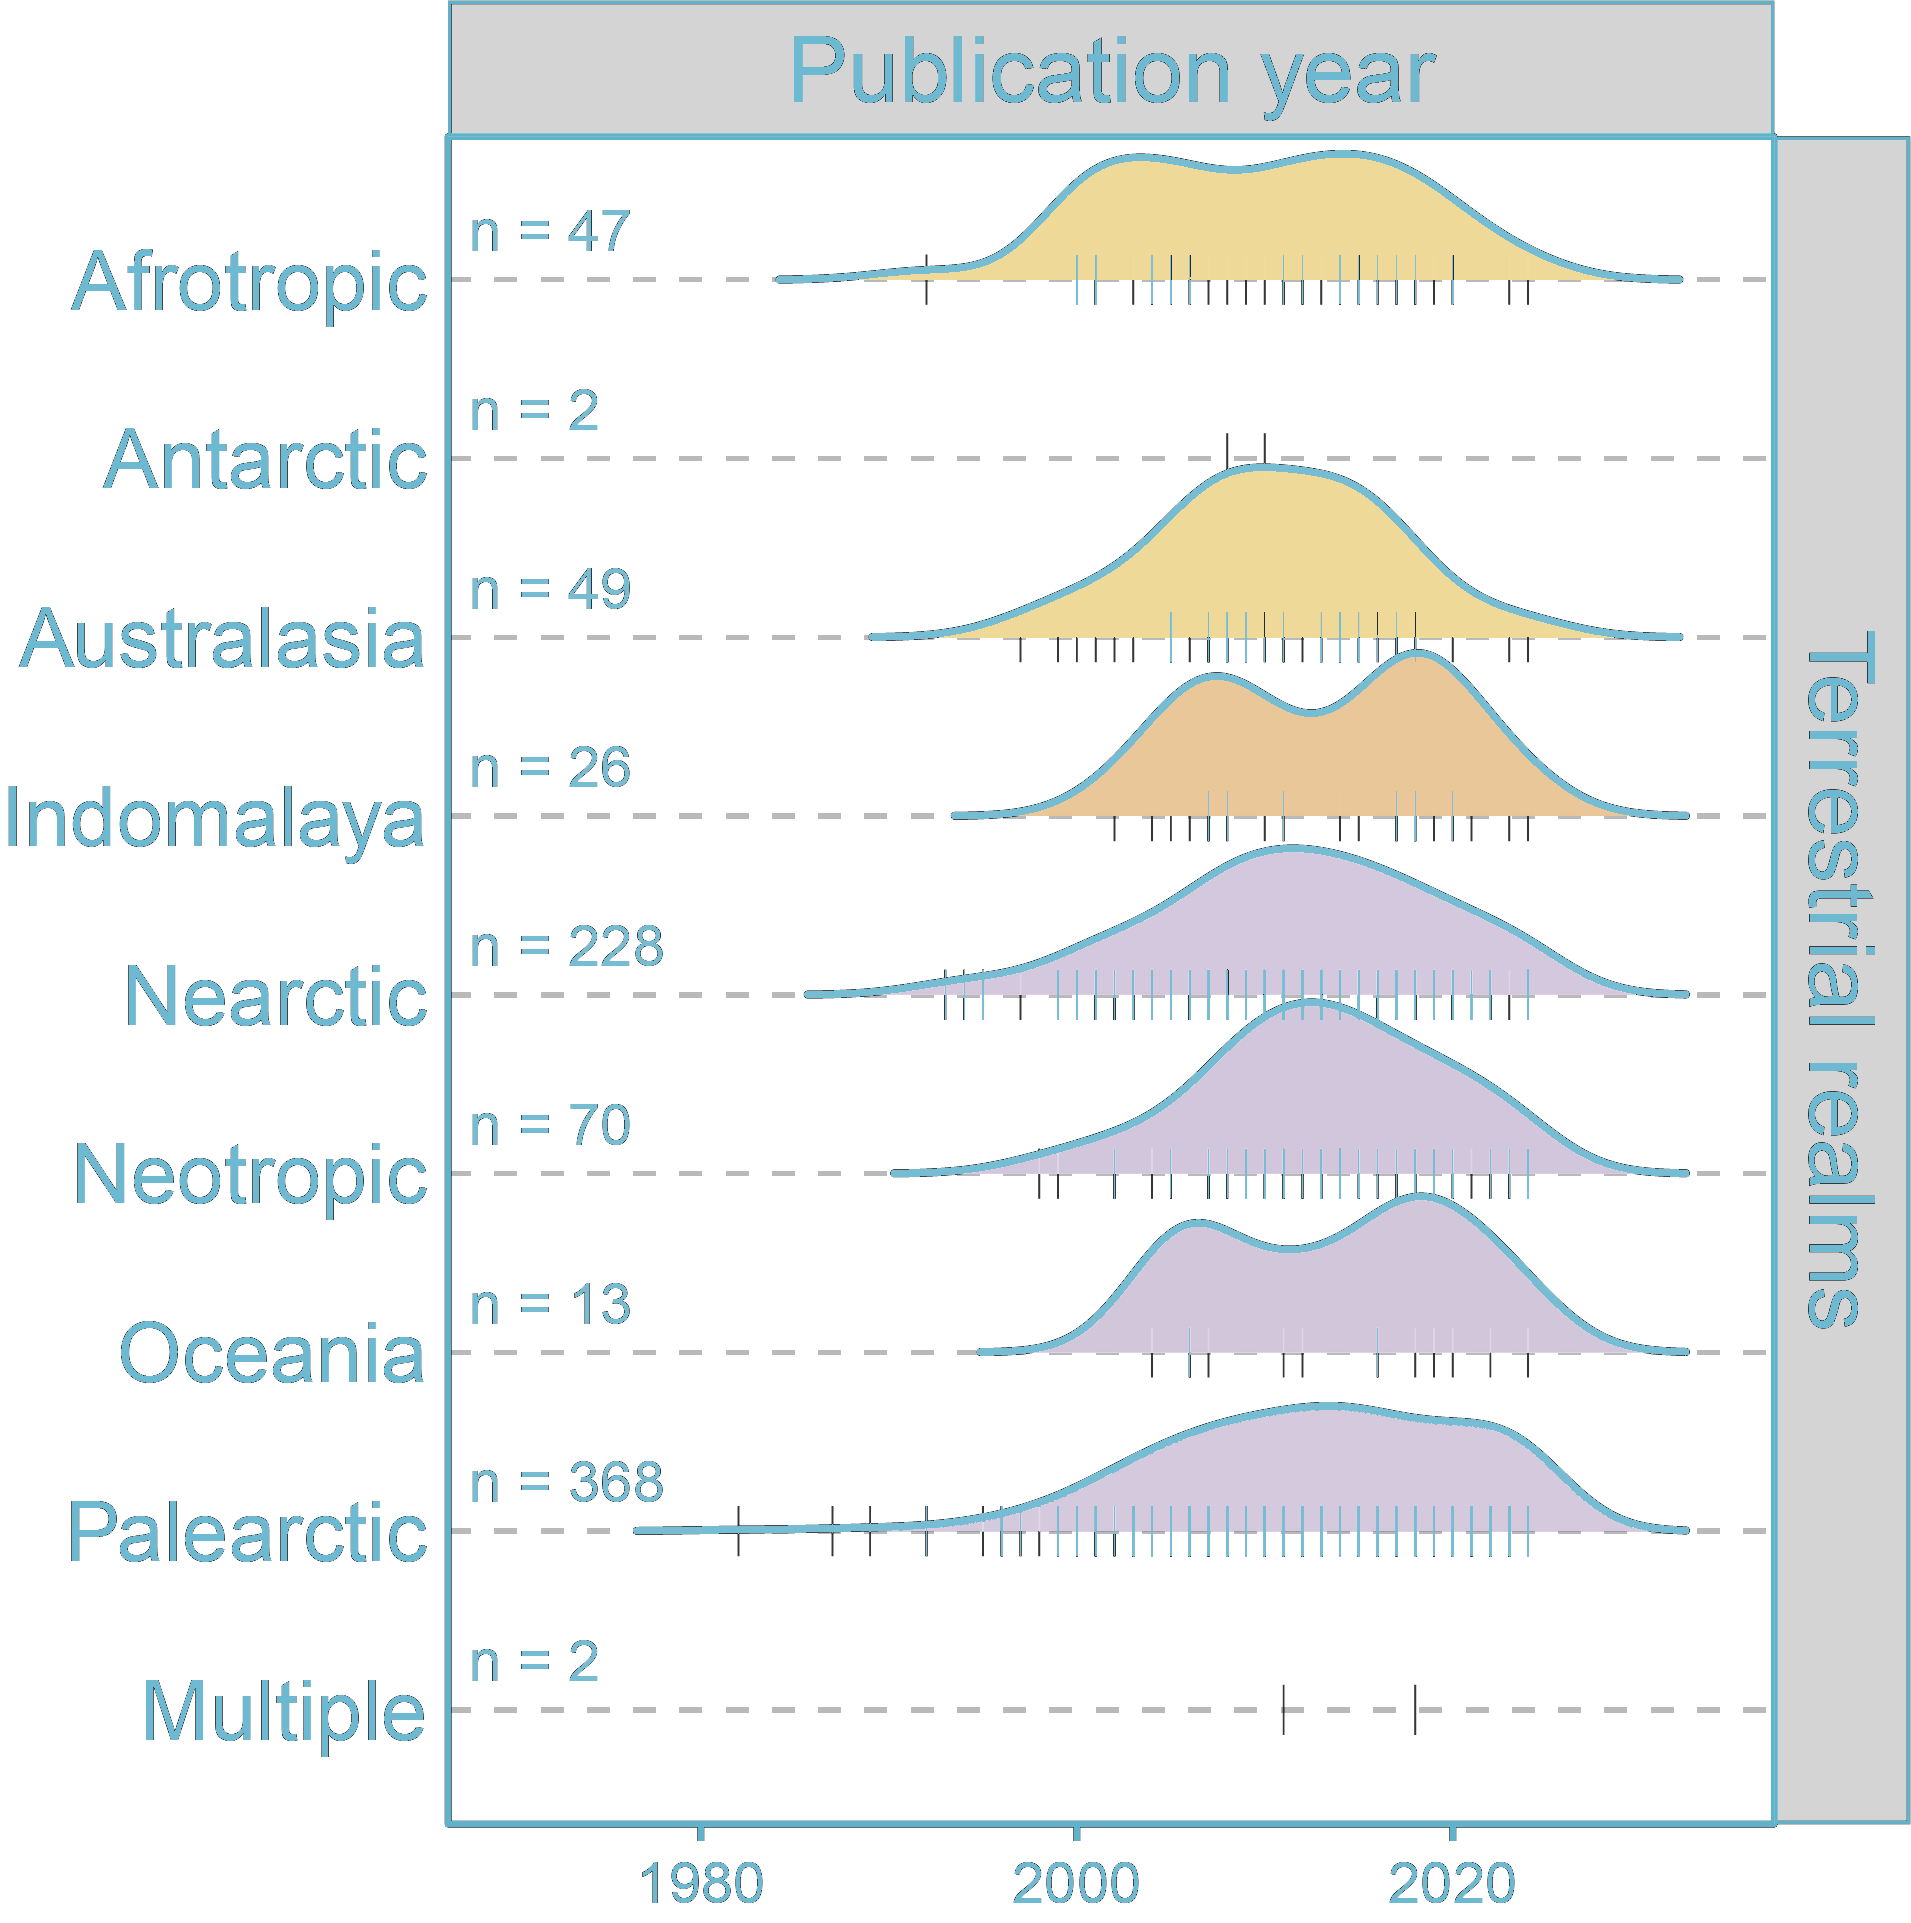
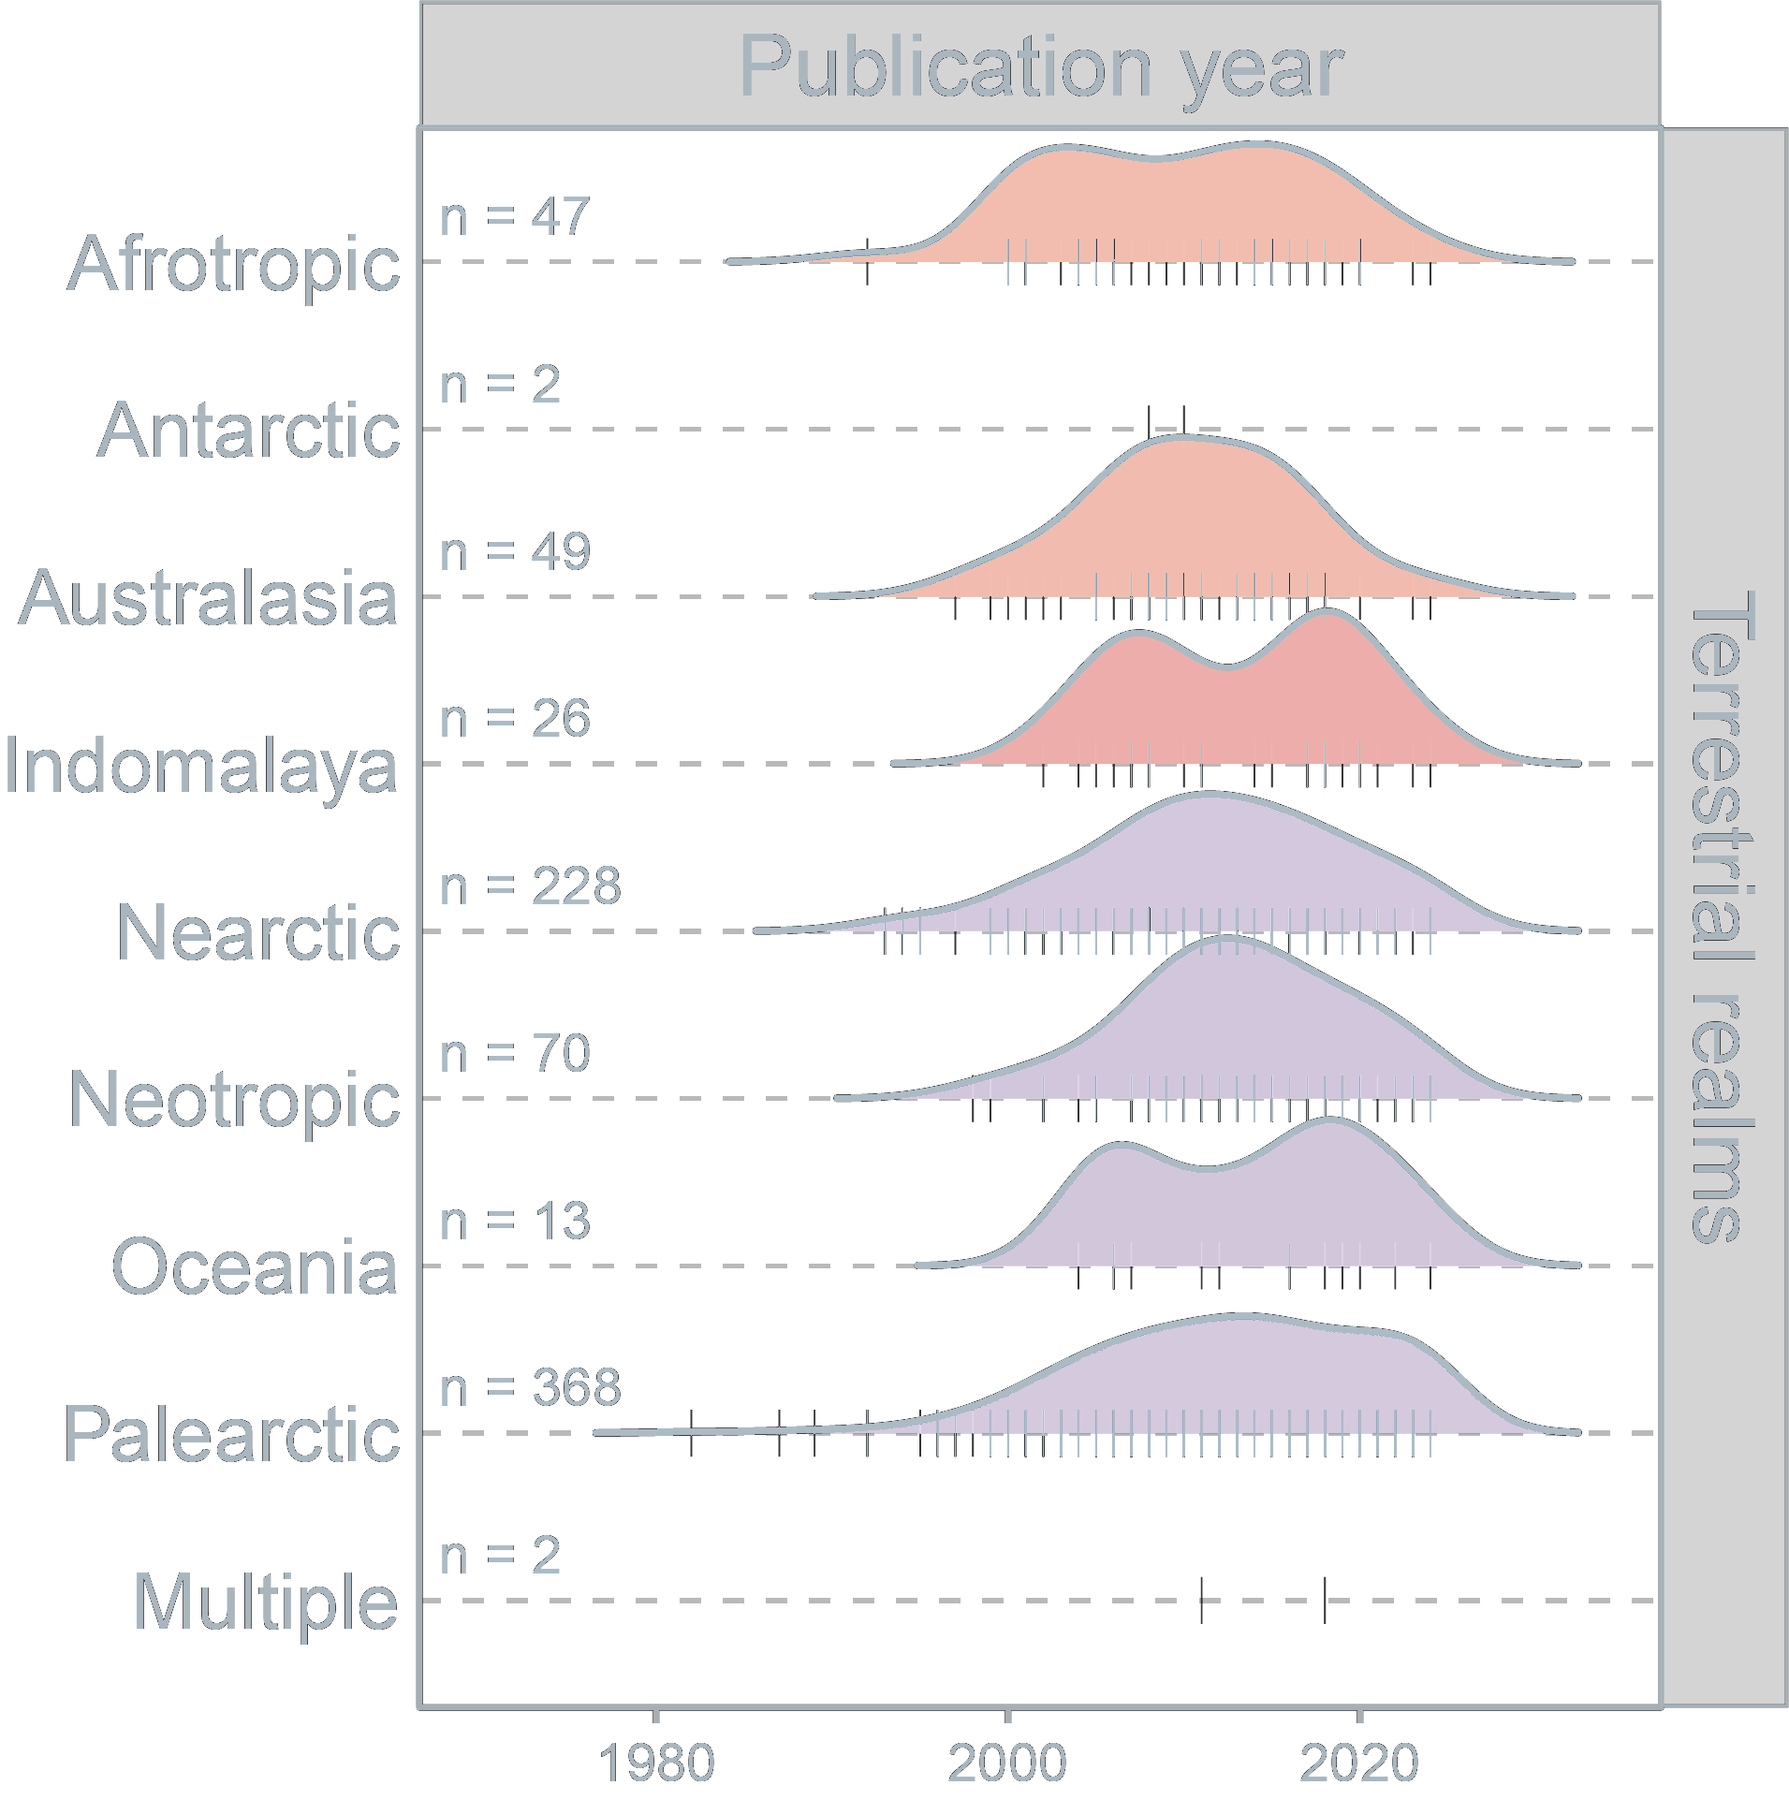
fix: apply distinct pastel omics index colors

diff --git a/scripts/recolor_figure_atlas.py b/scripts/recolor_figure_atlas.py
@@ -44,11 +44,13 @@ def hex_to_rgb(color: str) -> np.ndarray:
 
 
 def hue_targets(theme: dict[str, object]) -> tuple[np.ndarray, np.ndarray]:
-    """按原色相建立到主题色的稳定映射，覆盖冷暖与紫粉信号。"""
+    """按主题色建立错位映射，让缩略图明显呈现所选主题。"""
     colors = [hex_to_rgb(color) for color in theme["categorical"]]
-    # 色相锚点依次对应红、橙黄、绿、青、蓝、紫、粉；保留原图的暖冷语义。
+    # 色相锚点依次对应红、橙黄、绿、青、蓝、紫、粉。
+    # 有意错开原有色相与目标色，避免原图蓝/黄体系在换主题后看起来没有变化。
     hue_anchors = np.array([0.0, 0.14, 0.34, 0.50, 0.63, 0.77, 0.92])
-    target_indices = [5, 1, 7, 10, 6, 4, 0]
+    target_positions = [0.90, 0.00, 0.65, 0.45, 0.75, 0.25, 0.55]
+    target_indices = [round(position * (len(colors) - 1)) for position in target_positions]
     return hue_anchors, np.array([colors[index] for index in target_indices])
 
 

diff --git a/README.md b/README.md
@@ -104,23 +104,23 @@ git clone https://github.com/Starry-cz/academic-data-visualization.git
 <table>
   <thead><tr><th width="16%">图表名称</th><th width="24%">预览</th><th width="29%">图形特征</th><th width="31%">典型应用场景</th></tr></thead>
   <tbody>
-    <tr><td valign="top">3D 热图</td><td align="center" valign="top"><img src="assets/figure-atlas/3Dheatmap.png" width="190"></td><td valign="top">三维柱面同时编码矩阵数值，高度与颜色双重呈现</td><td valign="top">多因子交互效应、基因型 × 环境矩阵、三维强度分布</td></tr>
-    <tr><td valign="top">AUROC 曲线图</td><td align="center" valign="top"><img src="assets/figure-atlas/auroc.png" width="190"></td><td valign="top">TPR–FPR 曲线，包含对角参考线与 AUC 标注</td><td valign="top">分类模型评估、多模型 ROC 对比、阈值敏感性分析</td></tr>
-    <tr><td valign="top">柱状图</td><td align="center" valign="top"><img src="assets/figure-atlas/bar.png" width="190"></td><td valign="top">单变量柱形高度编码，可配合误差线和原始样本点</td><td valign="top">组间均值比较、单指标排序、计数统计</td></tr>
-    <tr><td valign="top">相关性密度图</td><td align="center" valign="top"><img src="assets/figure-atlas/CorrelationDensity.png" width="190"></td><td valign="top">散点叠加二维核密度等高线与拟合关系</td><td valign="top">两变量关系强弱、密集区识别、异常点检测</td></tr>
-    <tr><td valign="top">相关性矩阵图</td><td align="center" valign="top"><img src="assets/figure-atlas/Correlationmatrix.png" width="190"></td><td valign="top">方形网格以色阶和数值呈现成对相关系数</td><td valign="top">多变量相关性总览、特征筛选前共线性检查</td></tr>
-    <tr><td valign="top">密度热图</td><td align="center" valign="top"><img src="assets/figure-atlas/density_heatmap.png" width="190"></td><td valign="top">连续二维核密度以颜色梯度铺满网格</td><td valign="top">大样本点云密度分布、替代过度重叠散点图</td></tr>
-    <tr><td valign="top">频率 3D 热图</td><td align="center" valign="top"><img src="assets/figure-atlas/Frequency_3DHeatmap.png" width="190"></td><td valign="top">立体柱面展示分箱频次，兼顾分组与数量</td><td valign="top">等位基因频率分布、双因子计数交叉展示</td></tr>
-    <tr><td valign="top">分组相关性矩阵图</td><td align="center" valign="top"><img src="assets/figure-atlas/GroupCorrelationmatrix.png" width="190"></td><td valign="top">按处理或环境拆分多个相关矩阵并列呈现</td><td valign="top">不同处理 / 环境下相关结构差异比较</td></tr>
-    <tr><td valign="top">分组柱状图</td><td align="center" valign="top"><img src="assets/figure-atlas/GroupedBarChart.png" width="190"></td><td valign="top">同一类别下并列多个子组柱形，可配误差线</td><td valign="top">多处理 × 多指标对比、重复实验组间差异</td></tr>
-    <tr><td valign="top">Mantel 相关性检验图</td><td align="center" valign="top"><img src="assets/figure-atlas/MantelCorrelation.png" width="190"></td><td valign="top">相关矩阵热图叠加连线，标注 Mantel r 与显著性</td><td valign="top">环境因子与群落 / 基因型矩阵关联、距离矩阵分析</td></tr>
-    <tr><td valign="top">PCA 双标图</td><td align="center" valign="top"><img src="assets/figure-atlas/PCA.png" width="190"></td><td valign="top">主成分散点、分组置信椭圆与变量载荷组合</td><td valign="top">样本分离、群体结构、降维与变量贡献展示</td></tr>
-    <tr><td valign="top">雷达图</td><td align="center" valign="top"><img src="assets/figure-atlas/radar.png" width="190"></td><td valign="top">多轴闭合轮廓比较多个指标的相对表现</td><td valign="top">少量对象的多指标画像、处理综合性状比较</td></tr>
-    <tr><td valign="top">山脊图</td><td align="center" valign="top"><img src="assets/figure-atlas/RidgePlot.png" width="190"></td><td valign="top">多组核密度曲线沿纵向错位堆叠</td><td valign="top">多组或多时间点的分布变化与重叠模式</td></tr>
-    <tr><td valign="top">桑基图</td><td align="center" valign="top"><img src="assets/figure-atlas/sankey.png" width="190"></td><td valign="top">带宽编码流量，连接来源、过程与去向</td><td valign="top">分类流向、物质 / 能量转移、状态转换展示</td></tr>
-    <tr><td valign="top">堆叠柱状散点图</td><td align="center" valign="top"><img src="assets/figure-atlas/StackedBarScatter.png" width="190"></td><td valign="top">堆叠组成与原始散点结合，兼顾比例和个体差异</td><td valign="top">组成结构比较、样本级观测与汇总结果联读</td></tr>
-    <tr><td valign="top">趋势图</td><td align="center" valign="top"><img src="assets/figure-atlas/trend.png" width="190"></td><td valign="top">连续折线展示时间、剂量或梯度方向的变化</td><td valign="top">时间序列、剂量反应、环境梯度趋势</td></tr>
-    <tr><td valign="top">小提琴图</td><td align="center" valign="top"><img src="assets/figure-atlas/violin_chart.png" width="190"></td><td valign="top">分布密度轮廓与中位数 / 四分位等统计摘要结合</td><td valign="top">分组分布、离散程度与异常值比较</td></tr>
+    <tr><td valign="top">3D 热图</td><td align="center" valign="top"><img src="assets/figure-atlas/3Dheatmap.png?theme=pastel-omics-v2" width="190"></td><td valign="top">三维柱面同时编码矩阵数值，高度与颜色双重呈现</td><td valign="top">多因子交互效应、基因型 × 环境矩阵、三维强度分布</td></tr>
+    <tr><td valign="top">AUROC 曲线图</td><td align="center" valign="top"><img src="assets/figure-atlas/auroc.png?theme=pastel-omics-v2" width="190"></td><td valign="top">TPR–FPR 曲线，包含对角参考线与 AUC 标注</td><td valign="top">分类模型评估、多模型 ROC 对比、阈值敏感性分析</td></tr>
+    <tr><td valign="top">柱状图</td><td align="center" valign="top"><img src="assets/figure-atlas/bar.png?theme=pastel-omics-v2" width="190"></td><td valign="top">单变量柱形高度编码，可配合误差线和原始样本点</td><td valign="top">组间均值比较、单指标排序、计数统计</td></tr>
+    <tr><td valign="top">相关性密度图</td><td align="center" valign="top"><img src="assets/figure-atlas/CorrelationDensity.png?theme=pastel-omics-v2" width="190"></td><td valign="top">散点叠加二维核密度等高线与拟合关系</td><td valign="top">两变量关系强弱、密集区识别、异常点检测</td></tr>
+    <tr><td valign="top">相关性矩阵图</td><td align="center" valign="top"><img src="assets/figure-atlas/Correlationmatrix.png?theme=pastel-omics-v2" width="190"></td><td valign="top">方形网格以色阶和数值呈现成对相关系数</td><td valign="top">多变量相关性总览、特征筛选前共线性检查</td></tr>
+    <tr><td valign="top">密度热图</td><td align="center" valign="top"><img src="assets/figure-atlas/density_heatmap.png?theme=pastel-omics-v2" width="190"></td><td valign="top">连续二维核密度以颜色梯度铺满网格</td><td valign="top">大样本点云密度分布、替代过度重叠散点图</td></tr>
+    <tr><td valign="top">频率 3D 热图</td><td align="center" valign="top"><img src="assets/figure-atlas/Frequency_3DHeatmap.png?theme=pastel-omics-v2" width="190"></td><td valign="top">立体柱面展示分箱频次，兼顾分组与数量</td><td valign="top">等位基因频率分布、双因子计数交叉展示</td></tr>
+    <tr><td valign="top">分组相关性矩阵图</td><td align="center" valign="top"><img src="assets/figure-atlas/GroupCorrelationmatrix.png?theme=pastel-omics-v2" width="190"></td><td valign="top">按处理或环境拆分多个相关矩阵并列呈现</td><td valign="top">不同处理 / 环境下相关结构差异比较</td></tr>
+    <tr><td valign="top">分组柱状图</td><td align="center" valign="top"><img src="assets/figure-atlas/GroupedBarChart.png?theme=pastel-omics-v2" width="190"></td><td valign="top">同一类别下并列多个子组柱形，可配误差线</td><td valign="top">多处理 × 多指标对比、重复实验组间差异</td></tr>
+    <tr><td valign="top">Mantel 相关性检验图</td><td align="center" valign="top"><img src="assets/figure-atlas/MantelCorrelation.png?theme=pastel-omics-v2" width="190"></td><td valign="top">相关矩阵热图叠加连线，标注 Mantel r 与显著性</td><td valign="top">环境因子与群落 / 基因型矩阵关联、距离矩阵分析</td></tr>
+    <tr><td valign="top">PCA 双标图</td><td align="center" valign="top"><img src="assets/figure-atlas/PCA.png?theme=pastel-omics-v2" width="190"></td><td valign="top">主成分散点、分组置信椭圆与变量载荷组合</td><td valign="top">样本分离、群体结构、降维与变量贡献展示</td></tr>
+    <tr><td valign="top">雷达图</td><td align="center" valign="top"><img src="assets/figure-atlas/radar.png?theme=pastel-omics-v2" width="190"></td><td valign="top">多轴闭合轮廓比较多个指标的相对表现</td><td valign="top">少量对象的多指标画像、处理综合性状比较</td></tr>
+    <tr><td valign="top">山脊图</td><td align="center" valign="top"><img src="assets/figure-atlas/RidgePlot.png?theme=pastel-omics-v2" width="190"></td><td valign="top">多组核密度曲线沿纵向错位堆叠</td><td valign="top">多组或多时间点的分布变化与重叠模式</td></tr>
+    <tr><td valign="top">桑基图</td><td align="center" valign="top"><img src="assets/figure-atlas/sankey.png?theme=pastel-omics-v2" width="190"></td><td valign="top">带宽编码流量，连接来源、过程与去向</td><td valign="top">分类流向、物质 / 能量转移、状态转换展示</td></tr>
+    <tr><td valign="top">堆叠柱状散点图</td><td align="center" valign="top"><img src="assets/figure-atlas/StackedBarScatter.png?theme=pastel-omics-v2" width="190"></td><td valign="top">堆叠组成与原始散点结合，兼顾比例和个体差异</td><td valign="top">组成结构比较、样本级观测与汇总结果联读</td></tr>
+    <tr><td valign="top">趋势图</td><td align="center" valign="top"><img src="assets/figure-atlas/trend.png?theme=pastel-omics-v2" width="190"></td><td valign="top">连续折线展示时间、剂量或梯度方向的变化</td><td valign="top">时间序列、剂量反应、环境梯度趋势</td></tr>
+    <tr><td valign="top">小提琴图</td><td align="center" valign="top"><img src="assets/figure-atlas/violin_chart.png?theme=pastel-omics-v2" width="190"></td><td valign="top">分布密度轮廓与中位数 / 四分位等统计摘要结合</td><td valign="top">分组分布、离散程度与异常值比较</td></tr>
   </tbody>
 </table>
 
